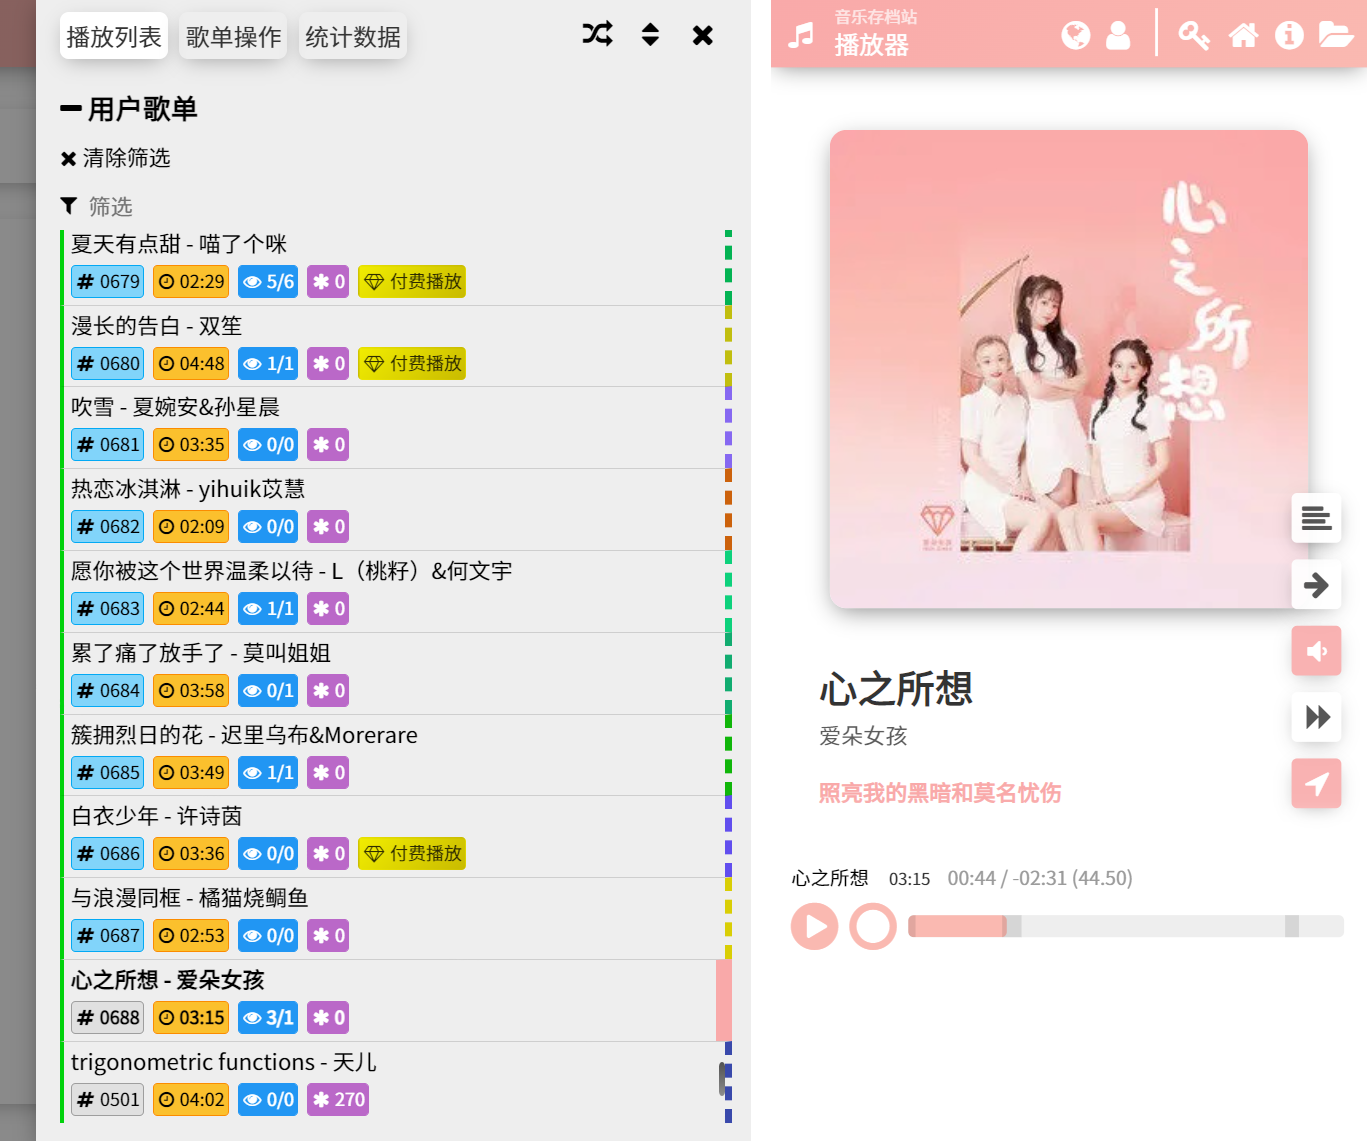
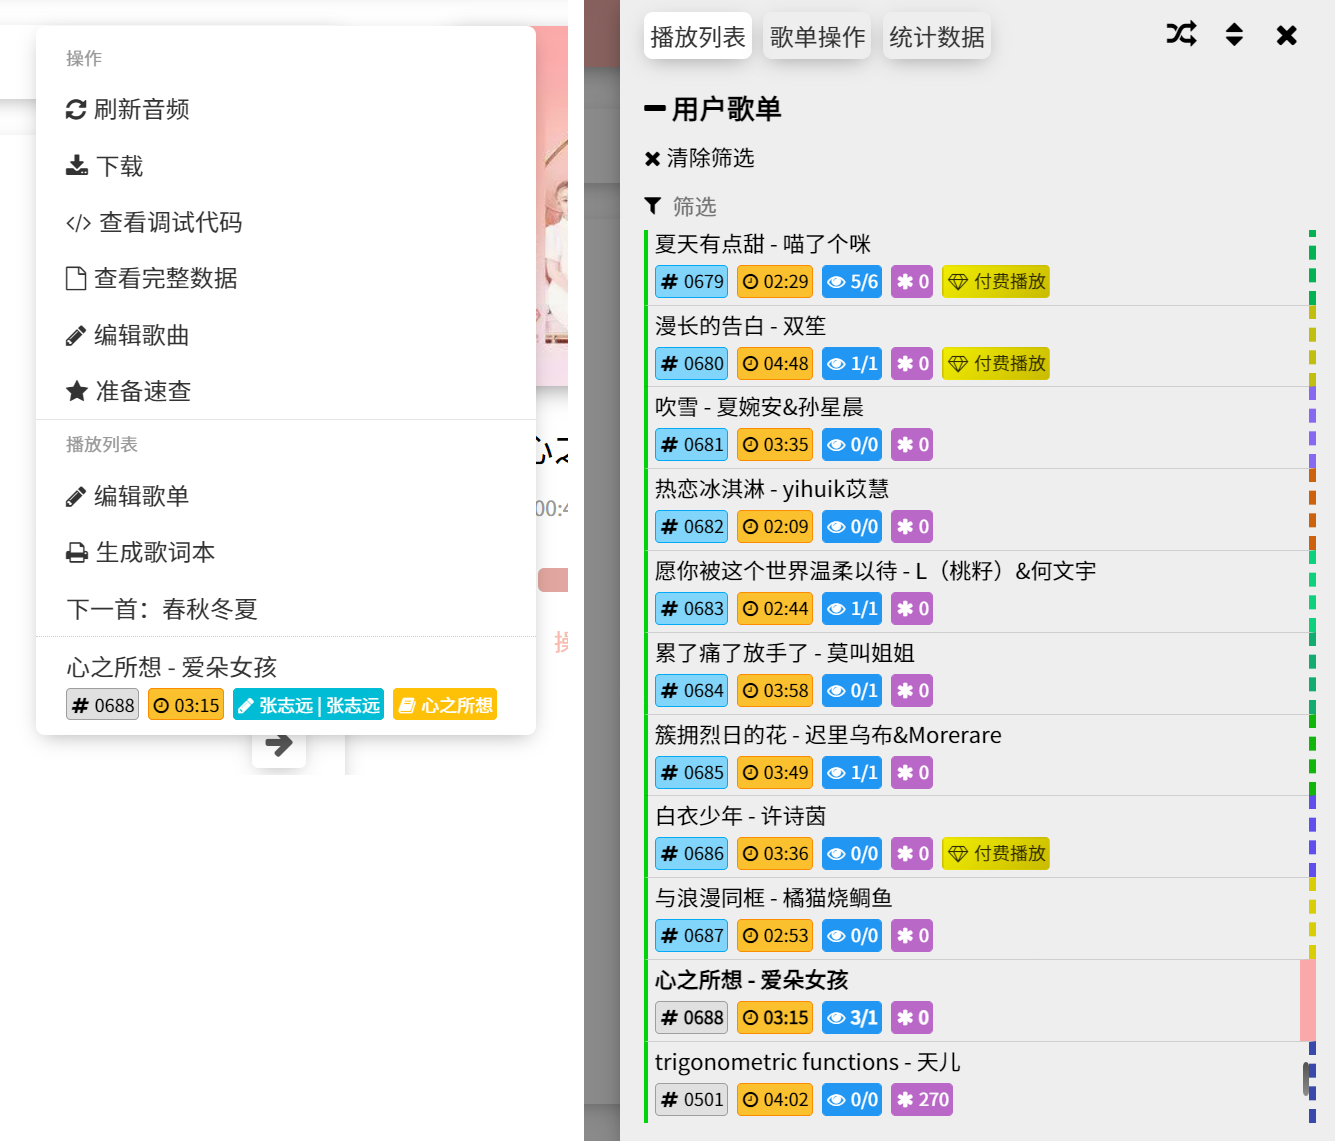
Fix layout again

diff --git a/_docs/gallery/README.md b/_docs/gallery/README.md
@@ -79,11 +79,11 @@ Users can login and store playlists.
 
 ▲ Player on PC, clean layout. Administrator-uploaded songs may use paragraphing.
 
-<img src="./detailed-walkthrough/player-index-dropdown.png" style="max-width: calc(50% - 16px)" /> <img src="./detailed-walkthrough/player-index-playlist.png" style="max-width: calc(50% - 16px)" />
+![](./detailed-walkthrough/combined1.png)
 
 ▲ Title menu (click title to open) and playlist menu.
 
-<img src="./detailed-walkthrough/player-index-mobile1.png" style="max-width: calc(50% - 16px)" /> <img src="./detailed-walkthrough/player-index-mobile2.png" style="max-width: calc(50% - 16px)" />
+![](./detailed-walkthrough/combined2.png)
 
 ▲ Mobile player with two pages.
 
